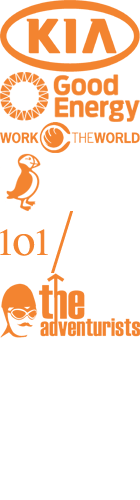
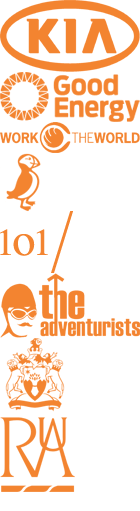
preparing phase 2

diff --git a/source/assets/stylesheets/_base.scss b/source/assets/stylesheets/_base.scss
@@ -129,6 +129,8 @@ h2{
   &.puffin span{background-position: 50px -153px; height: 58px;}
   &.onezeroone span{background-position: 34px -211px; height: 62px;}
   &.adventurists span{background-position: 0 -273px;height: 65px;}
+  &.rau span{background-position: 33px -338px;height: 154px;}
+
 
 }
 

diff --git a/source/assets/stylesheets/_settings.scss b/source/assets/stylesheets/_settings.scss
@@ -8,7 +8,7 @@
 $light:#fff;
 $dark:#333333;
 
-$main:#ff6c00;          // Orange
+$main:#f38430;          // Orange
 $background: #f4f5ec;   // Beige
 $contact: #8a6eaf;      // Purple
 $contrast: #19e3bd;     // Turquoise
